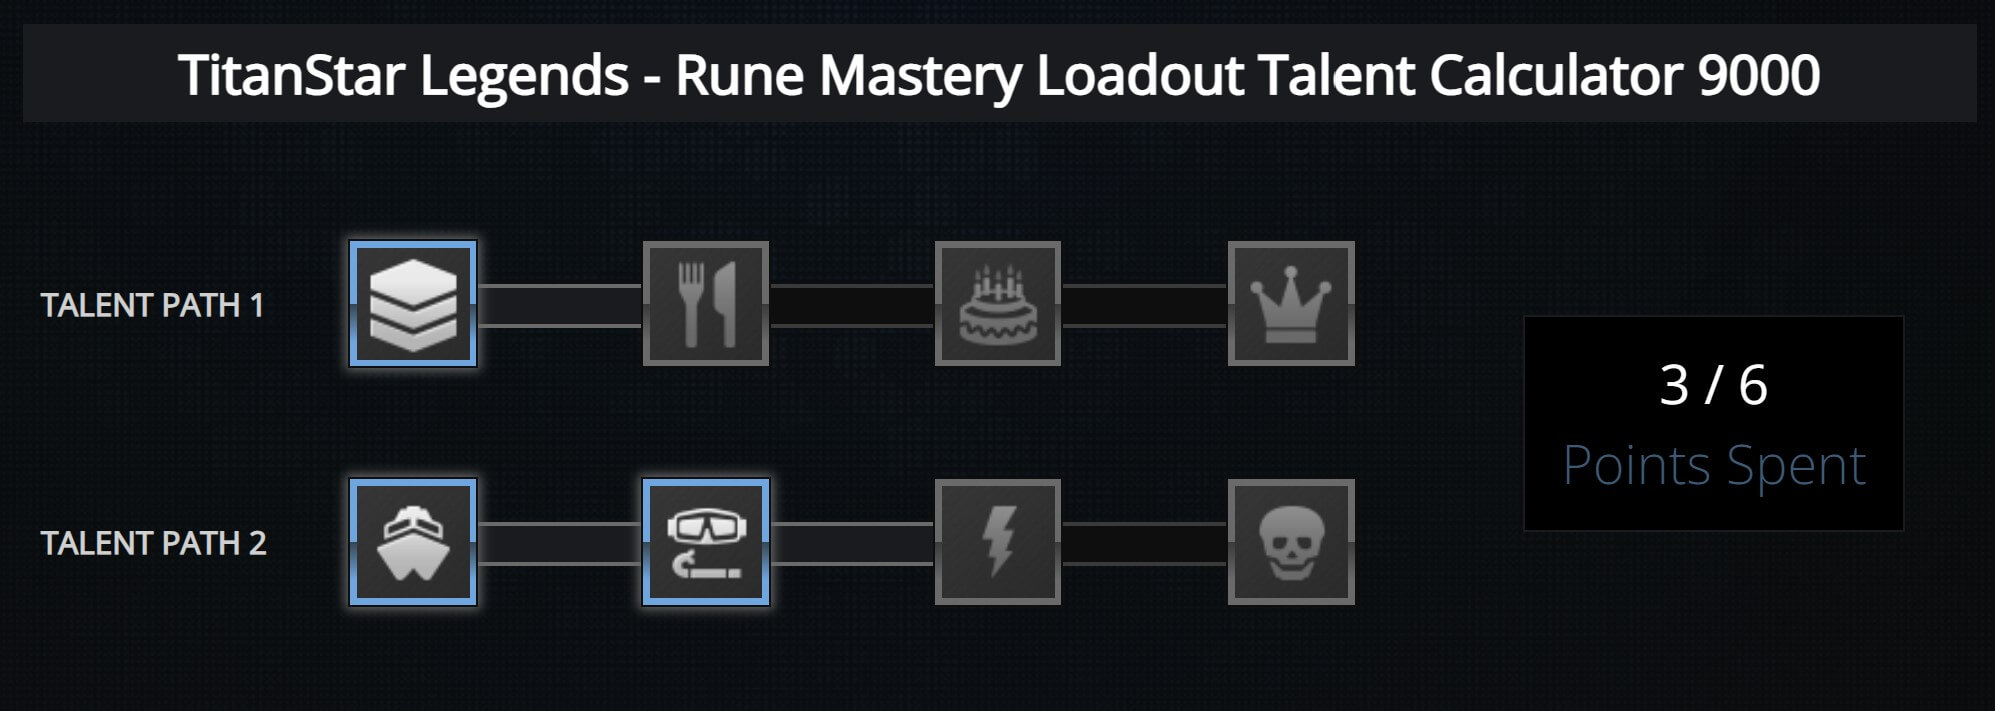
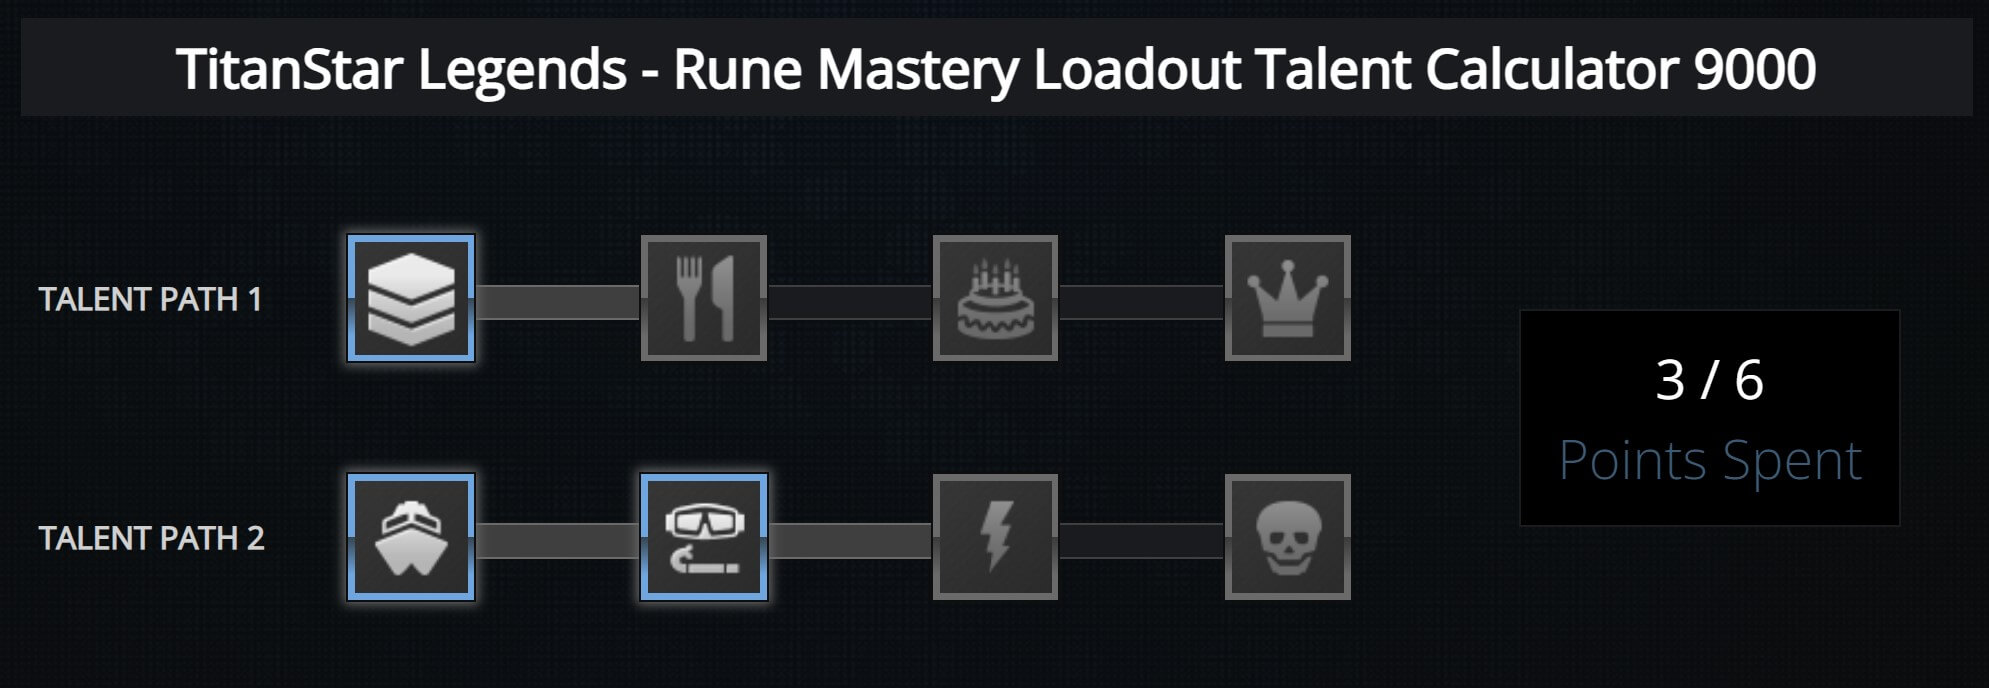
hone in on rune styles

diff --git a/src/components/rune.module.scss b/src/components/rune.module.scss
@@ -93,40 +93,40 @@
 
   @include palm {
     top: 50px;
-    left: 16px;
-    border-right: 2px solid;
-    border-left: 2px solid;
-    width: $spacing-1;
+    left: 17px;
+    border-right: 1px solid;
+    border-left: 1px solid;
+    width: 14px;
     height: $spacing-5;
   }
 
   @include lap-up {
     top: 50px;
-    left: 16px;
-    border-right: 2px solid;
-    border-left: 2px solid;
-    width: $spacing-1;
+    left: 17px;
+    border-right: 1px solid;
+    border-left: 1px solid;
+    width: 14px;
     height: $spacing-5;
   }
 
   @include lap-wide-up {
-    top: 16px;
+    top: 19px;
     left: 50px;
-    border-top: 2px solid;
+    border-top: 1px solid;
     border-right: none;
-    border-bottom: 2px solid;
+    border-bottom: 1px solid;
     border-left: none;
     width: $spacing-5;
-    height: $spacing-1;
+    height: 14px;
   }
 
   &-active {
     border-color: $dim-gray;
-    background-color: $eerie-black;
+    background-color: $raisin-black;
   }
 
   &-inactive {
-    border-color: $jet;
-    background-color: $night;
+    border-color: $raisin-black;
+    background-color: $eerie-black;
   }
 }

diff --git a/src/styles/palette.scss b/src/styles/palette.scss
@@ -1,5 +1,6 @@
 $night: #0d0e0e;
 $eerie-black: #191b1e;
+$raisin-black: #3f3f3f;
 $charcoal: #364451;
 $jet: #3a3a3a;
 $dim-gray: #6a6a6a;
